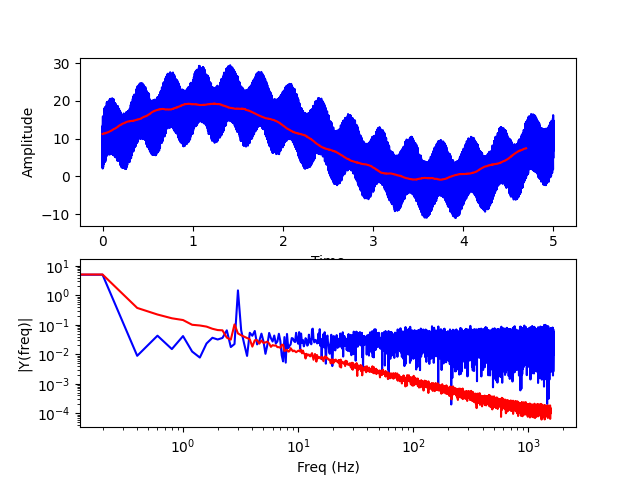
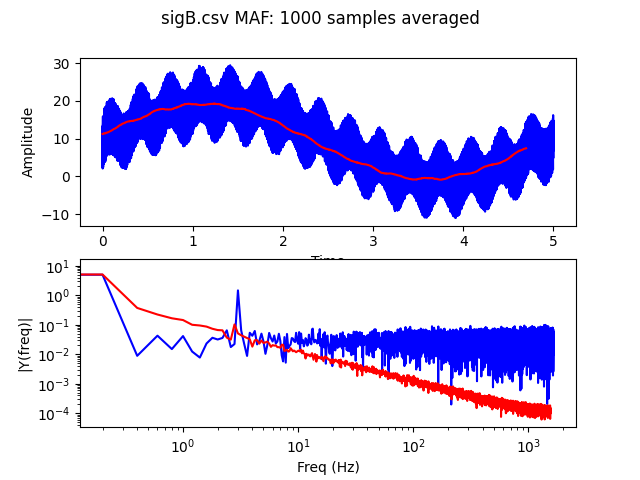
redid maf plots

Changed region(s): [[0.25, 0.0, 0.75, 0.0625]]

diff --git a/HW10/hw10.py b/HW10/hw10.py
@@ -6,7 +6,7 @@ import csv
 t = [] # column 0
 data1 = [] # column 1
 
-filename = 'sigD.csv'
+filename = 'sigA.csv'
 
 with open(filename) as f:
     # open the csv file
@@ -32,74 +32,17 @@ with open(filename) as f:
 
 # MOVING AVERAGE FILTER ------------------------------------------------------------
 
-# num_average = 500
+num_average = 1000
 
-# filtered_arr = []
-
-
-
-# for i in range(len(t) - num_average):
-#     # print the data to verify it was read
-#     filtered_arr.append(sum(data1[i:(i+num_average)])/num_average)
+filtered_arr = []
 
 
 
-
-
-# Ts = (t[-1] - t[0]) / len(t) # sampling interval
-# Fs = 1.0 / Ts # sample rate
-# ts = np.arange(0,t[-1],Ts) # time vector
-# y = data1 # the data to make the fft from
-# y_filt = filtered_arr
-
-
-# n = len(y) # length of the 
-# n_filt = len(y_filt)
-
-# k = np.arange(n)
-# k_filt = np.arange(n_filt)
-
-# T = n/Fs
-# frq = k/T # two sides frequency range
-# frq = frq[range(int(n/2))] # one side frequency range
-
-# frq_filt = k/T # two sides frequency range
-# frq_filt = frq_filt[range(int(n_filt/2))] # one side frequency range
-
-# Y = np.fft.fft(y)/n # fft computing and normalization
-# Y = Y[range(int(n/2))]
-
-# Y_filt = np.fft.fft(y_filt)/n_filt # fft computing and normalization
-# Y_filt = Y_filt[range(int(n_filt/2))]
-
-# fig, (ax1, ax2) = plt.subplots(2, 1)
-# ax1.plot(t,y,'b')
-# ax1.plot(t[0:len(y_filt)],y_filt,'r')
-
-# ax1.set_xlabel('Time')
-# ax1.set_ylabel('Amplitude')
-
-
-# ax2.loglog(frq,abs(Y),'b') # plotting the fft
-
-# ax2.loglog(frq_filt,abs(Y_filt),'r') # plotting the fft
-
-# ax2.set_xlabel('Freq (Hz)')
-# ax2.set_ylabel('|Y(freq)|')
-# plt.show()
-
-# IIR --------------------------------------------------------
-
-A = 0.003
-B = 0.997
-
-filtered_arr = [data1[0]]
-
-avg = 0
-
-for i in range(len(t) - 1):
+for i in range(len(t) - num_average):
     # print the data to verify it was read
-    filtered_arr.append(A * data1[i+1] + B * filtered_arr[-1])
+    filtered_arr.append(sum(data1[i:(i+num_average)])/num_average)
+
+
 
 
 
@@ -144,5 +87,65 @@ ax2.loglog(frq_filt,abs(Y_filt),'r') # plotting the fft
 ax2.set_xlabel('Freq (Hz)')
 ax2.set_ylabel('|Y(freq)|')
 
-fig.suptitle(f'{filename} IIR Plot: A = {A}, B = {B}')
+fig.suptitle(f'{filename} MAF: {num_average} samples averaged')
+
 plt.show()
+
+# IIR --------------------------------------------------------
+
+# A = 0.003
+# B = 0.997
+
+# filtered_arr = [data1[0]]
+
+# avg = 0
+
+# for i in range(len(t) - 1):
+#     # print the data to verify it was read
+#     filtered_arr.append(A * data1[i+1] + B * filtered_arr[-1])
+
+
+
+# Ts = (t[-1] - t[0]) / len(t) # sampling interval
+# Fs = 1.0 / Ts # sample rate
+# ts = np.arange(0,t[-1],Ts) # time vector
+# y = data1 # the data to make the fft from
+# y_filt = filtered_arr
+
+
+# n = len(y) # length of the 
+# n_filt = len(y_filt)
+
+# k = np.arange(n)
+# k_filt = np.arange(n_filt)
+
+# T = n/Fs
+# frq = k/T # two sides frequency range
+# frq = frq[range(int(n/2))] # one side frequency range
+
+# frq_filt = k/T # two sides frequency range
+# frq_filt = frq_filt[range(int(n_filt/2))] # one side frequency range
+
+# Y = np.fft.fft(y)/n # fft computing and normalization
+# Y = Y[range(int(n/2))]
+
+# Y_filt = np.fft.fft(y_filt)/n_filt # fft computing and normalization
+# Y_filt = Y_filt[range(int(n_filt/2))]
+
+# fig, (ax1, ax2) = plt.subplots(2, 1)
+# ax1.plot(t,y,'b')
+# ax1.plot(t[0:len(y_filt)],y_filt,'r')
+
+# ax1.set_xlabel('Time')
+# ax1.set_ylabel('Amplitude')
+
+
+# ax2.loglog(frq,abs(Y),'b') # plotting the fft
+
+# ax2.loglog(frq_filt,abs(Y_filt),'r') # plotting the fft
+
+# ax2.set_xlabel('Freq (Hz)')
+# ax2.set_ylabel('|Y(freq)|')
+
+# fig.suptitle(f'{filename} IIR Plot: A = {A}, B = {B}')
+# plt.show()
